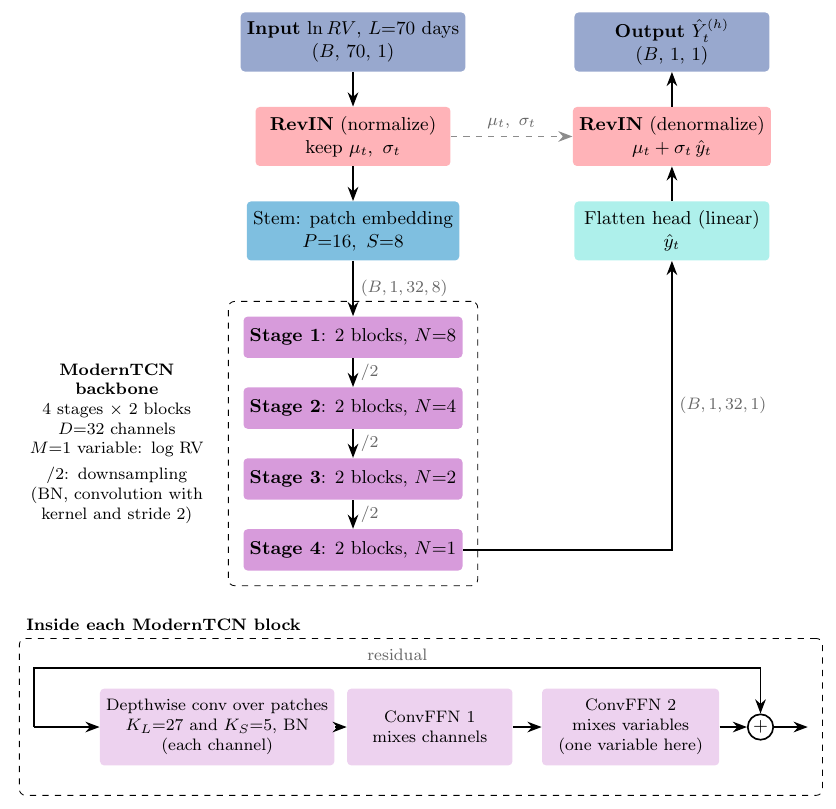
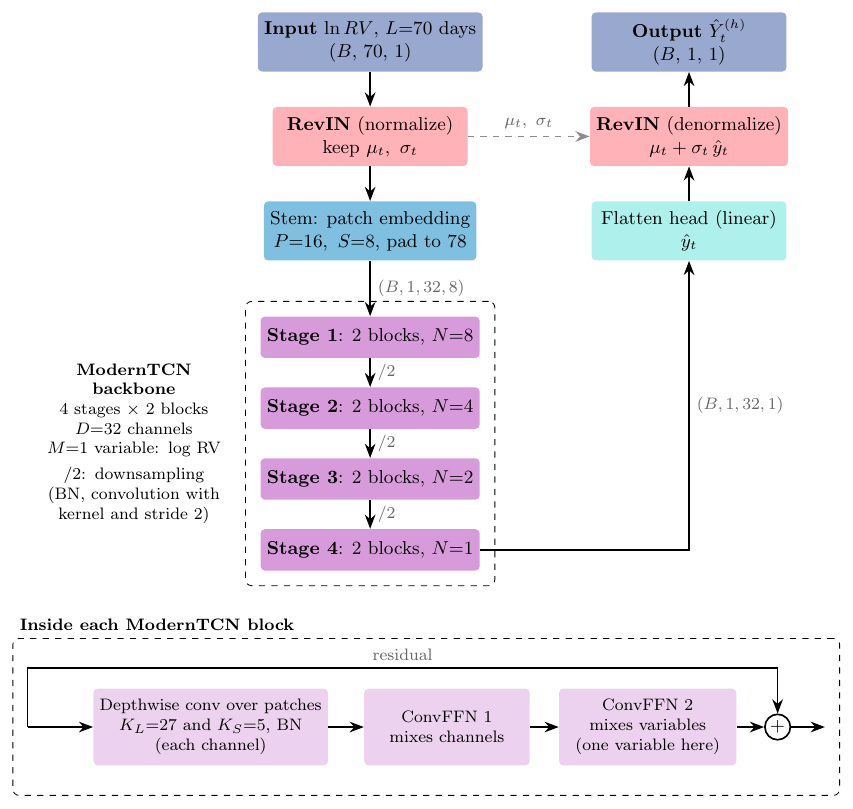
Fix the issues the second check found in the FiLM-TCN text and figures
- caption: gamma_t is not the scale (the scale is 1 + gamma_t); say
  which grey labels are shapes; note the end-padding that gives N = 8
- the last training origin is 30 Dec 2021 at h = 1 and 24 Dec 2021 at
  h = 5, not the end of 2021
- tuning provenance: say which values the Optuna search chose, that it
  held the optimizer and schedule fixed and ran 30 epochs with patience
  7, and leave a placeholder for which EUR/USD series it used
- same seed does not give the two models the same initial backbone
  weights or batch order, so the comparison holds on average over seeds
- figures: mark the stem padding (pad to 78) and widen a cramped arrow
  in the ModernTCN block strip

Claude-Session: https://claude.ai/code/session_01Q7HhLFe3Rr7Ry2pMruA621

diff --git a/paper/filmtcn.tex b/paper/filmtcn.tex
@@ -45,12 +45,14 @@ the architecture.
     variance as a second variable; both variables pass through four ModernTCN
     stages, and the calendar variable is dropped after the last one. The
     forecast-horizon calendar is embedded with the same $\mathbf{W}_e$,
-    averaged over the $h$ forecast days and mapped to the FiLM scale
-    $\boldsymbol{\gamma}_t$ and shift $\boldsymbol{\beta}_t$, which modulate
-    the history representation $\mathbf{H}_t$ before the linear head. Grey
-    labels give tensor shapes: (batch, days, features) for the inputs and
-    (batch, variables, channels, patches) inside the backbone. $J$ is the
-    number of calendar features.}
+    averaged over the $h$ forecast days and mapped to the FiLM parameters
+    $\boldsymbol{\gamma}_t$ and $\boldsymbol{\beta}_t$, which rescale and
+    shift the history representation $\mathbf{H}_t$ before the linear head.
+    Both stems pad the 70-day window at its end to 78 days, which gives
+    $N=8$ patches. Grey labels on the arrows give tensor shapes, as
+    (batch, days, features) before the mean-pool and as (batch, variables,
+    channels, patches) inside the backbone, or name the quantity passed;
+    $/2$ marks downsampling. $J$ is the number of calendar features.}
   \label{fig:filmtcn}
 \end{figure}
 
@@ -350,8 +352,9 @@ pair and horizon, by minimizing the mean squared error
 \end{equation}
 over the forecast origins $\mathcal{T}$ of the training years. All three series
 start on 12 January 2012, so with $L=70$ the first training origin is
-19 April 2012 and $\mathcal{T}$ runs to the end of 2021: 2,515 origins at
-$h=1$ and 2,511 at $h=5$. Each epoch draws shuffled mini-batches of 256 origins
+19 April 2012. The last training origin is the latest one whose $h$-day target
+window ends by 31 December 2021: 30 December 2021 at $h=1$ and 24 December 2021
+at $h=5$. This gives 2,515 training origins at $h=1$ and 2,511 at $h=5$. Each epoch draws shuffled mini-batches of 256 origins
 and drops the last incomplete batch, so it uses 9 batches, or 2,304 origins.
 
 We use Adam \citep{kingma2015adam} without weight decay and a one-cycle
@@ -368,15 +371,27 @@ computed on two shuffled batches of 256 origins, 512 of the 514--519
 validation origins. Each configuration is trained with the seeds
 $2021,\dots,2030$, and the losses we report are averages over seeds.
 
-Table~\ref{tab:filmtcn-hparams} lists the hyperparameters. The backbone and
-optimizer values are the optimum of an Optuna search \citep{akiba2019optuna}
-for ModernTCN on EUR/USD at $h=1$, with the dropout rate in the blocks raised
-from 0.33 to 0.5. That search has no calendar embedding; $d_e=16$ is set
-separately [state how $d_e=16$ was chosen]. All values are held fixed across
-pairs and horizons. The ModernTCN benchmark is the same
-network with the calendar variable and the FiLM layer removed ($M=1$), trained
-with the same hyperparameters, so the difference between the two models
-isolates the calendar path.
+Table~\ref{tab:filmtcn-hparams} lists the hyperparameters. The look-back
+length, the network dimensions, the dropout rates, the learning rate and the
+batch size are the optimum of an Optuna search \citep{akiba2019optuna} for
+ModernTCN on EUR/USD at $h=1$ [state the EUR/USD series and sample the search
+used]. The search held the optimizer and the one-cycle schedule fixed and
+trained each trial for at most 30 epochs with patience 7. We raise the dropout
+rate in the blocks from the optimum of 0.33 to 0.5. The search has no calendar
+embedding, so $d_e=16$ is set separately [state how $d_e=16$ was chosen].
+% Candidate, if this is how d_e was chosen: tuningresults/EVENTTCN1 searched
+% d_e in {4, 8, 16} for the event model at h = 1 and selected 16 (EVENTTCN5
+% selected 4 at h = 5, EVENTTCN22 selected 8 at h = 22). That search used a
+% different backbone (seq_len 22, patch 32, 3 blocks). E.g.: "We take d_e = 16
+% from a second search, for FiLM-TCN at h = 1 over d_e in {4, 8, 16}; none of
+% its other values are used."
+All values are held fixed across pairs and horizons. The ModernTCN benchmark
+is the same network with the calendar variable and the FiLM layer removed
+($M=1$), trained with the same hyperparameters and seeds. Because \FiLMTCN{}
+creates its calendar layers before the backbone, a given seed does not give the
+two networks the same initial backbone weights or the same batch order, so the
+difference between the two models isolates the calendar path only on average
+over seeds.
 
 \begin{table}[t]
   \centering

diff --git a/paper/figures/moderntcn_arch.tex b/paper/figures/moderntcn_arch.tex
@@ -28,7 +28,7 @@
 \node[box, fill=cRevIN] (v2) at (0,-1.6)
   {\textbf{RevIN} (normalize)\\keep $\mu_t,\ \sigma_t$};
 \node[box, fill=cStem] (v3) at (0,-3.2)
-  {Stem: patch embedding\\$P{=}16,\ S{=}8$};
+  {Stem: patch embedding\\$P{=}16,\ S{=}8$, pad to 78};
 \draw[arr] (v1) -- (v2);
 \draw[arr] (v2) -- (v3);
 
@@ -61,8 +61,8 @@
 \draw[arr, dashed, black!45] (v2) -- node[dim, above] {$\mu_t,\ \sigma_t$} (u4);
 
 % ---- inside one ModernTCN block --------------------------------------------
-\coordinate (bin) at (-5.4,-11.6);
-\node[ibox, fill=cBlock!45, minimum width=3.4cm] (b1) at (-2.3,-11.6)
+\coordinate (bin) at (-5.8,-11.6);
+\node[ibox, fill=cBlock!45, minimum width=3.4cm] (b1) at (-2.7,-11.6)
   {Depthwise conv over patches\\$K_L{=}27$ and $K_S{=}5$, BN\\(each channel)};
 \node[ibox, fill=cBlock!45, minimum width=2.8cm] (b2) at (1.3,-11.6)
   {ConvFFN 1\\mixes channels};

diff --git a/paper/figures/filmtcn_arch.tex b/paper/figures/filmtcn_arch.tex
@@ -33,7 +33,7 @@
 \node[box, fill=cPast] (p2) at (0,-1.6)
   {Event embedding $\mathbf{W}_e$\\(shared with future path)};
 \node[box, fill=cPast] (p3) at (0,-3.2)
-  {Event patch stem\\$P{=}16,\ S{=}8$};
+  {Event patch stem\\$P{=}16,\ S{=}8$, pad to 78};
 \draw[arr] (p1) -- node[dim, right] {$(B,70,J)$} (p2);
 \draw[arr] (p2) -- node[dim, right] {$(B,70,16)$} (p3);
 
@@ -43,7 +43,7 @@
 \node[box, fill=cRevIN] (v2) at (4.2,-1.6)
   {\textbf{RevIN} (normalize)\\keep $\mu_t,\ \sigma_t$};
 \node[box, fill=cStem] (v3) at (4.2,-3.2)
-  {Stem: patch embedding\\$P{=}16,\ S{=}8$};
+  {Stem: patch embedding\\$P{=}16,\ S{=}8$, pad to 78};
 \node[box, fill=cConcat] (v4) at (4.2,-4.8)
   {Concatenate calendar\\as 2nd variable};
 \draw[arr] (v1) -- (v2);
